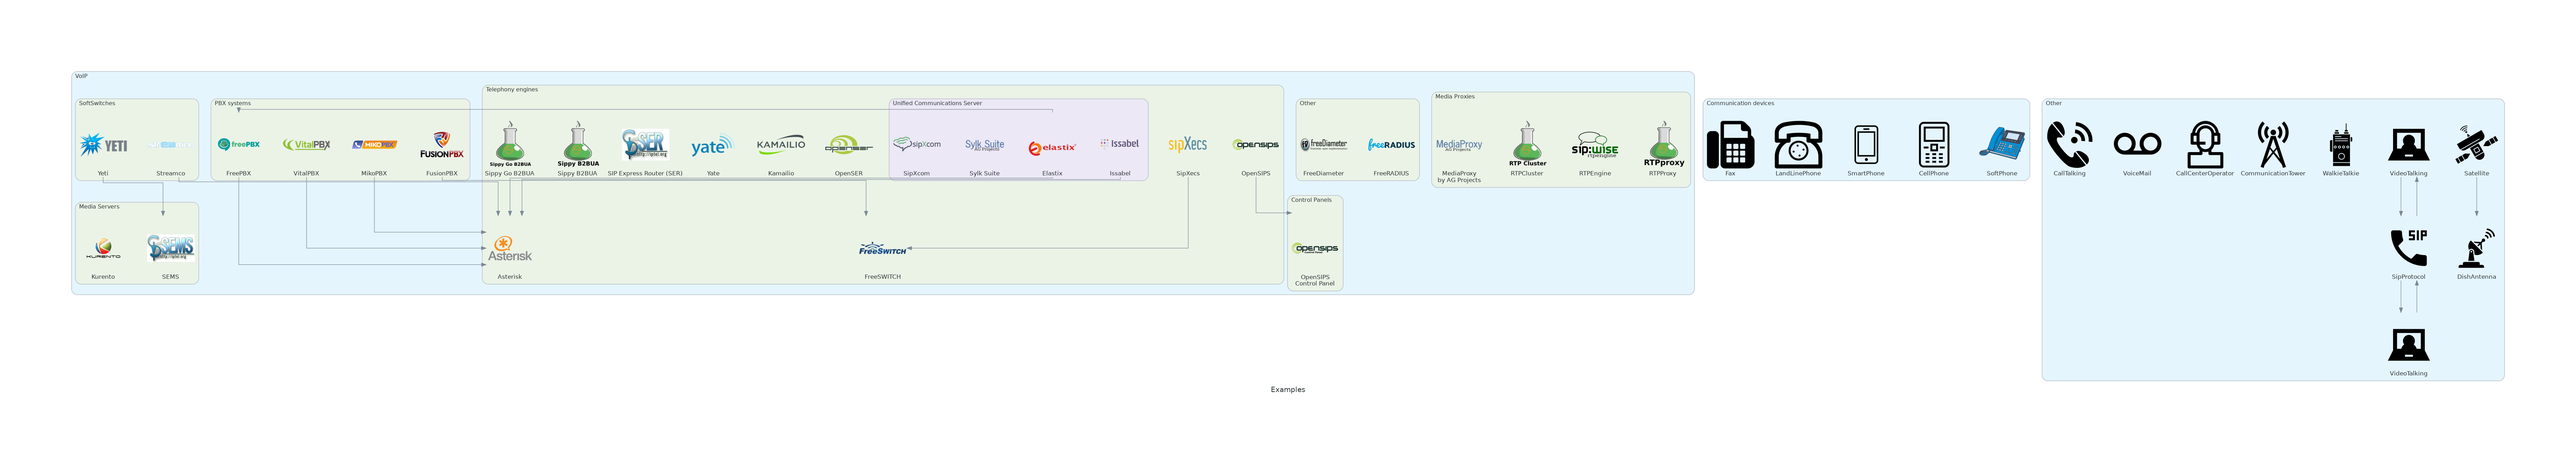
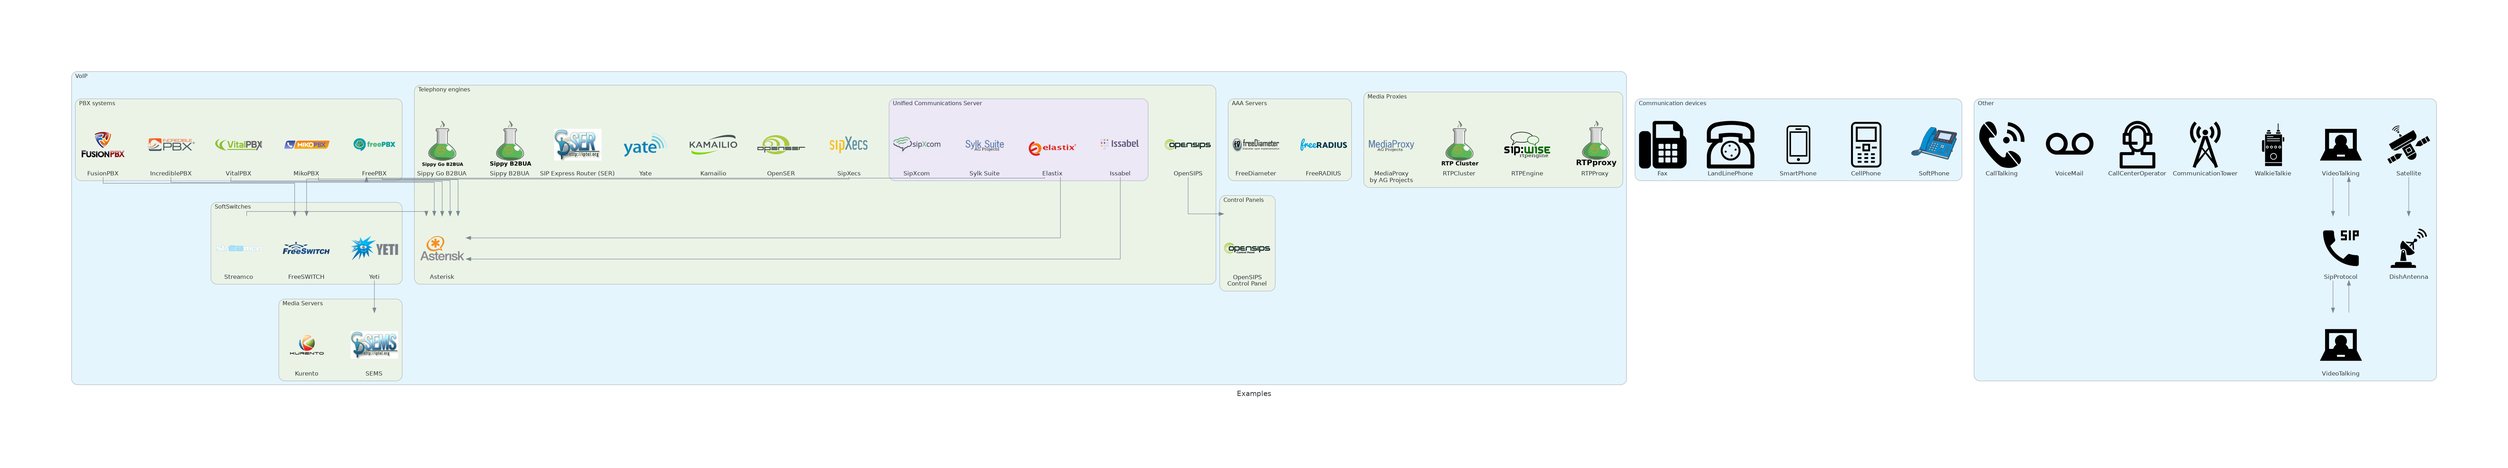
Add IncrediblePBX and made some corrections to the example

diff --git a/examples.py b/examples.py
@@ -14,15 +14,23 @@ with Diagram('Examples', show=False, direction='TB'):
             rtp_cluster = RTPCluster('RTPCluster')
             mediaproxy_agp = MediaProxyAGP('MediaProxy\nby AG Projects')
 
-        with Cluster('Other'):
+        with Cluster('AAA Servers'):
             freeradius = FreeRADIUS('FreeRADIUS')
             freediameter = FreeDiameter('FreeDiameter')
+
+        with Cluster('SoftSwitches'):
+            yeti_switch = YetiSwitch('Yeti')
+
+            yeti_switch >> sems
+
+            streamco = Streamco('Streamco')
+
+            freeswitch = FreeSWITCH('FreeSWITCH')
 
         with Cluster('Telephony engines'):
             asterisk = Asterisk('Asterisk')
             opensips = OpenSIPS('OpenSIPS')
             openser = OpenSER('OpenSER')
-            freeswitch = FreeSWITCH('FreeSWITCH')
             kamailio = Kamailio('Kamailio')
             yate = Yate('Yate')
             sipxecs = SipXecs('SipXecs')
@@ -31,6 +39,7 @@ with Diagram('Examples', show=False, direction='TB'):
             sippy_go_b2bua = SippyGoB2BUA('Sippy Go B2BUA')
 
             sipxecs >> freeswitch
+            streamco >> asterisk
 
             with Cluster('Unified Communications Server'):
                 sylksuite = SylkSuite('Sylk Suite')
@@ -59,17 +68,11 @@ with Diagram('Examples', show=False, direction='TB'):
             vitalpbx = VitalPBX('VitalPBX')
             vitalpbx >> asterisk
 
+            incrediblepbx = IncrediblePBX('IncrediblePBX')
+            incrediblepbx >> asterisk
+
             fusionpbx = FusionPBX('FusionPBX')
             fusionpbx >> freeswitch
-
-        with Cluster('SoftSwitches'):
-            yeti_switch = YetiSwitch('Yeti')
-
-            yeti_switch >> sems
-
-            streamco = Streamco('Streamco')
-
-            streamco >> asterisk
 
     with Cluster('Communication devices'):
         soft_phone = SoftPhone('SoftPhone')

diff --git a/telephony.py b/telephony.py
@@ -78,6 +78,10 @@ class VitalPBX(_Telephony):
     _icon = 'vitalpbx.png'
 
 
+class IncrediblePBX(_Telephony):
+    _icon = 'incrediblepbx.png'
+
+
 class FreeSWITCH(_Telephony):
     _icon = 'freeswitch.png'
 
